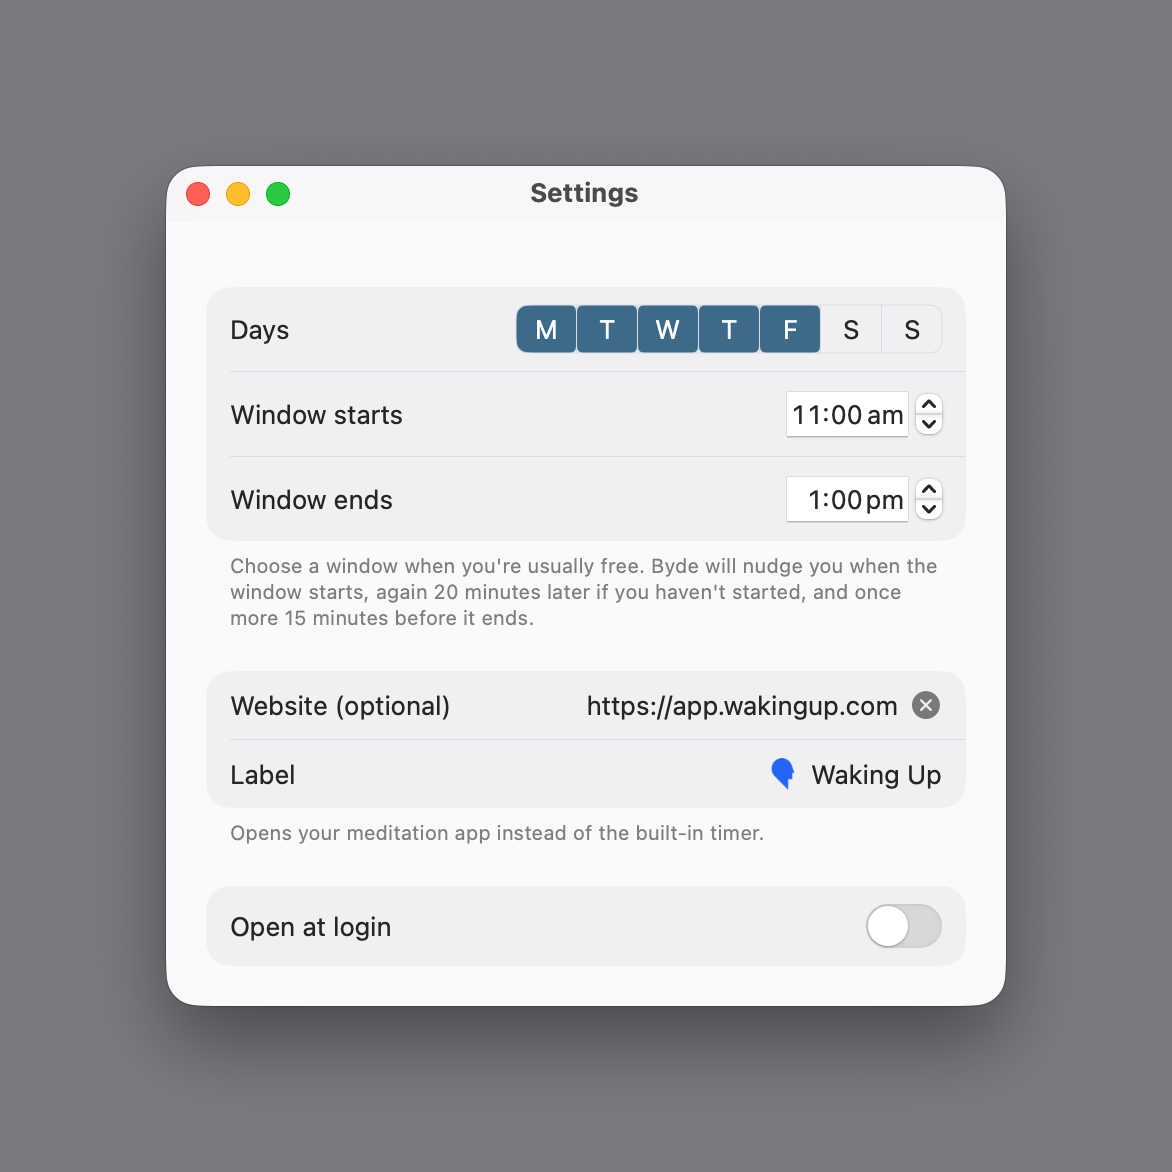
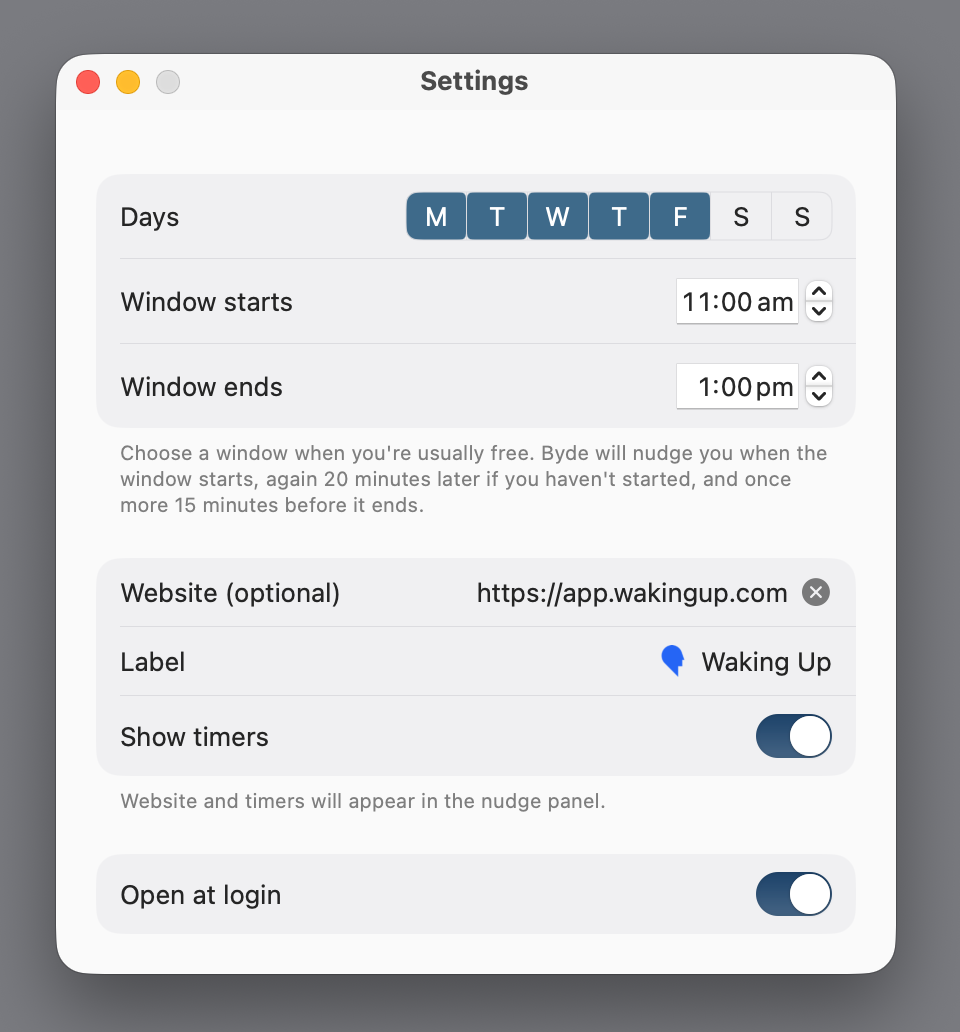
README: new settings screenshot

diff --git a/README.md b/README.md
@@ -14,7 +14,7 @@ I already had a habit tracker with reminders, but due to busyness I often swiped
 <img src="docs/screenshots/nudge.png" alt="The nudge panel" width="378">
 
 **Settings** <br><br>
-<img src="docs/screenshots/settings.png" alt="Settings" width="586">
+<img src="docs/screenshots/settings.png" alt="Settings" width="480">
 
 **The menu bar menu** <br><br>
 <img src="docs/screenshots/menu.png" alt="The menu bar menu" width="341">
